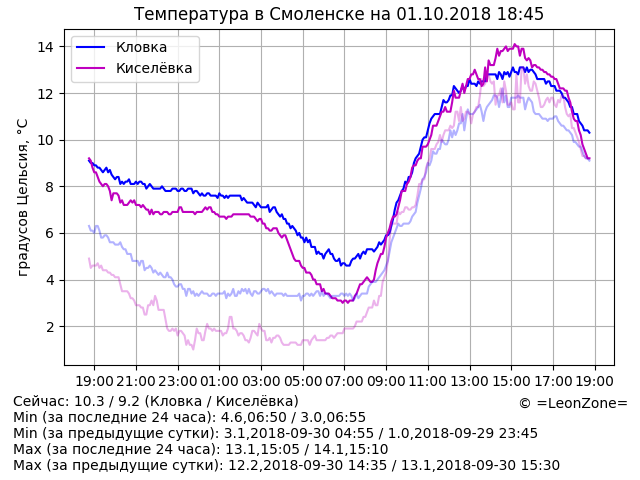
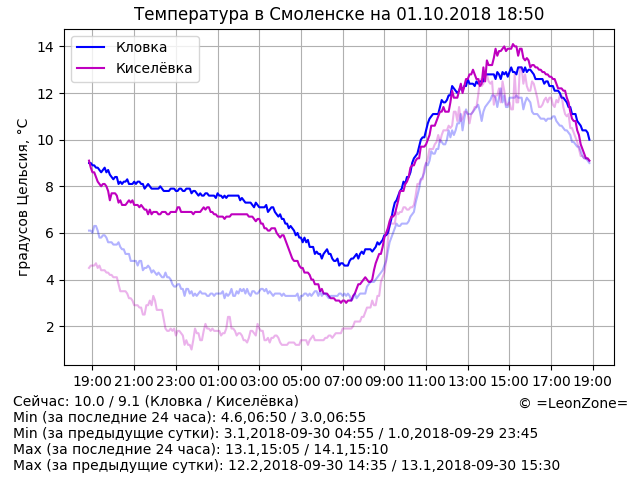
Update data

diff --git a/index.html b/index.html
@@ -14,7 +14,7 @@
 	<p align="center"><script>document.write("<img src=\"graph.png?rnd="+Math.random()+"\" alt=\"Температура в Смоленске\" align=\"middle\" width=\"640\" height=\"480\" />")</script>
 	<p hidden="true">
 <!-- textinfo -->
-Сейчас: 10.3 / 9.2 (Кловка / Киселёвка)
+Сейчас: 10.0 / 9.1 (Кловка / Киселёвка)
 Min (за последние 24 часа): 4.6,06:50 / 3.0,06:55
 Min (за предыдущие сутки): 3.1,2018-09-30 04:55 / 1.0,2018-09-29 23:45
 Max (за последние 24 часа): 13.1,15:05 / 14.1,15:10
